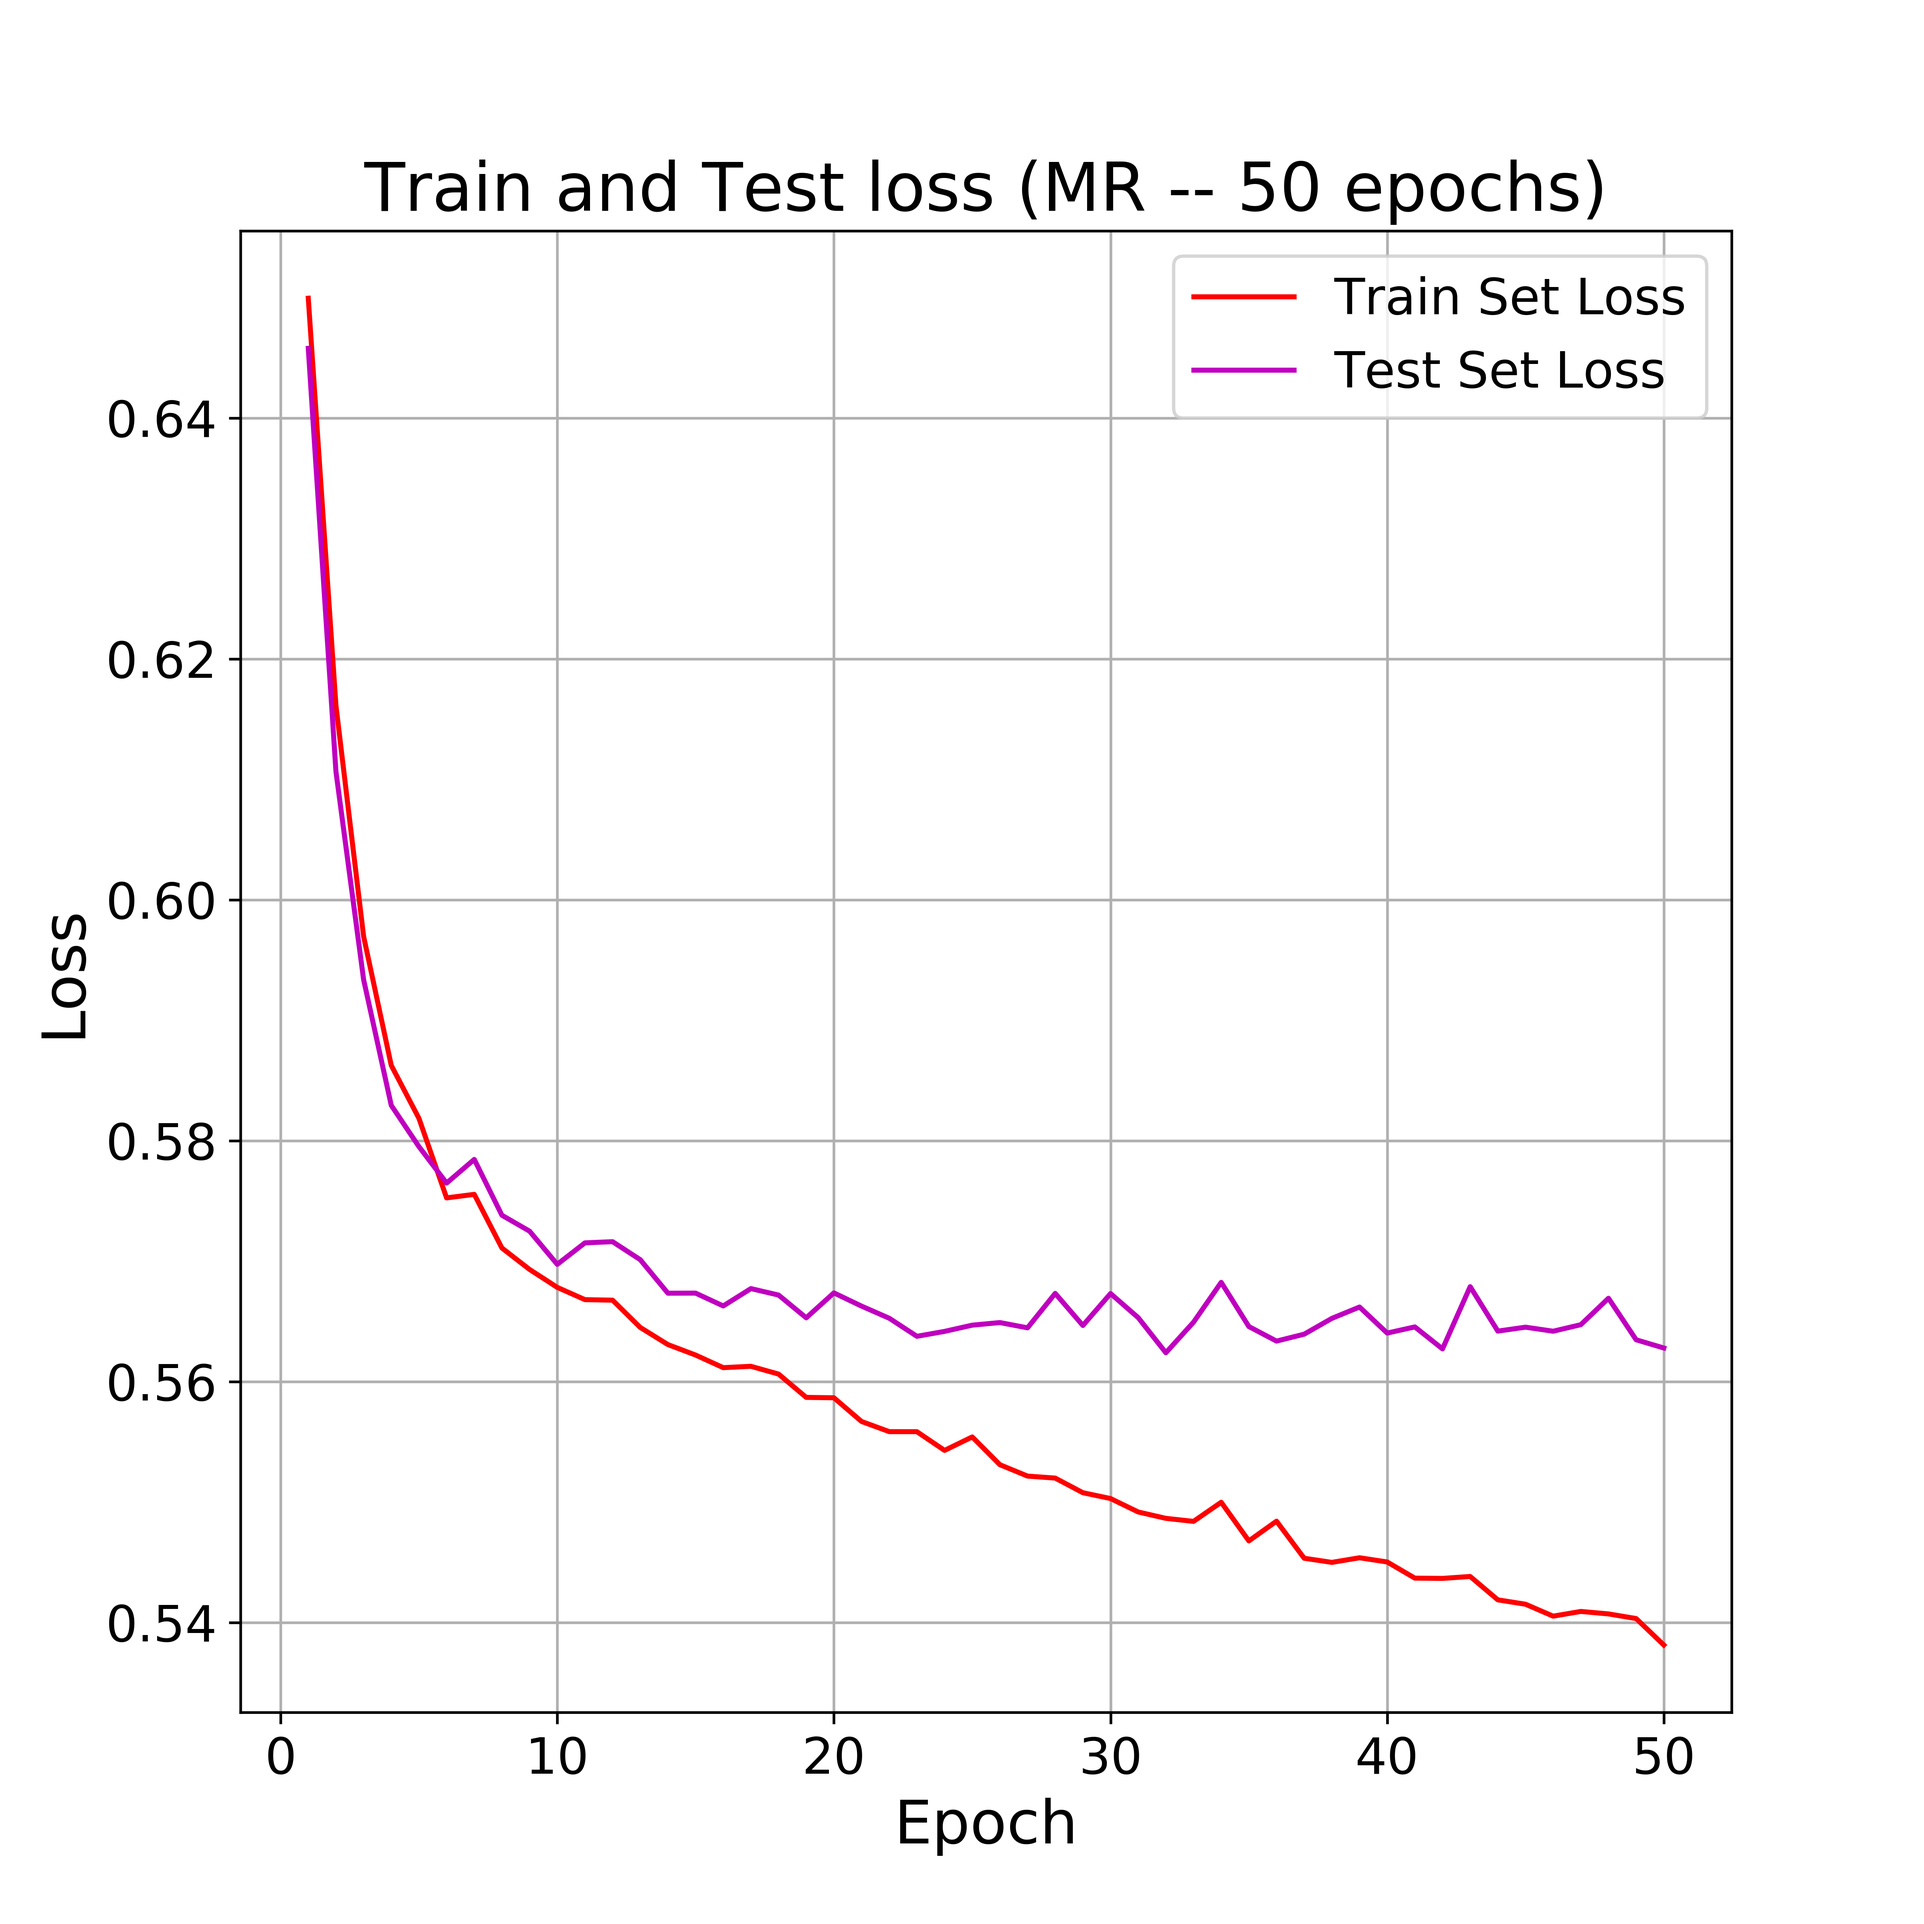
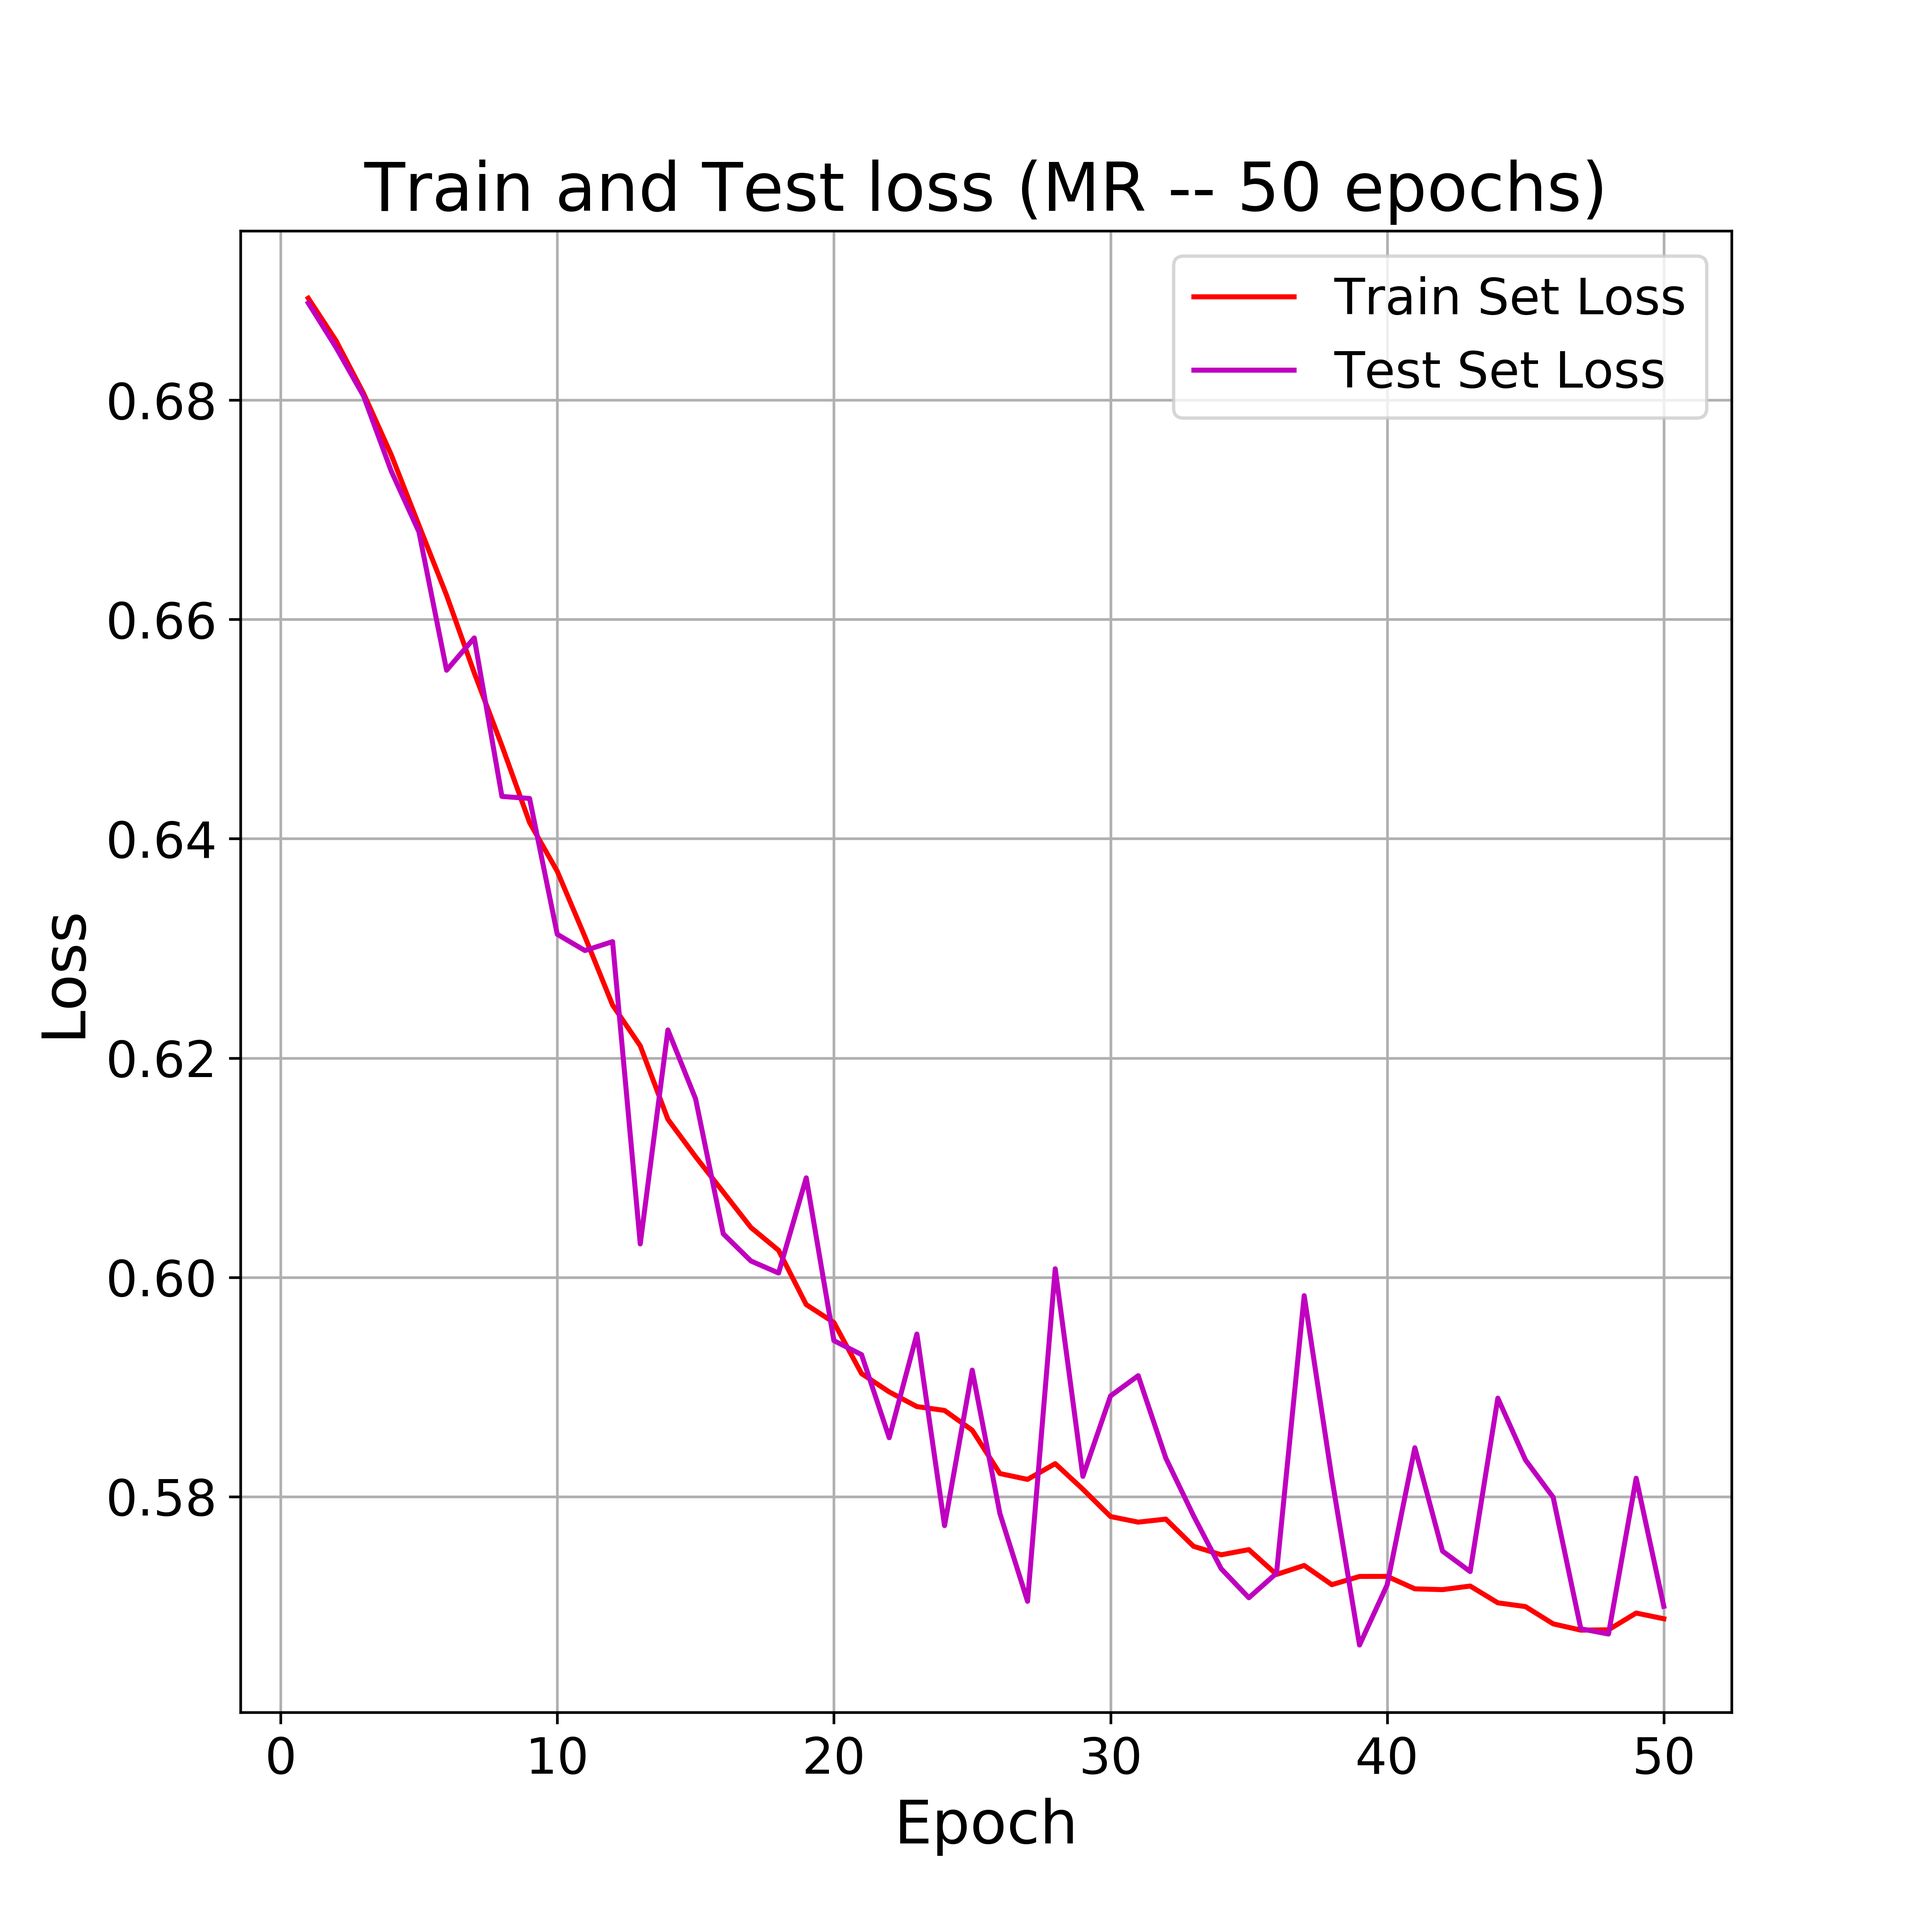
report

diff --git a/lab3/slp-lab3-prep/main.py b/lab3/slp-lab3-prep/main.py
@@ -35,7 +35,7 @@ EMB_DIM = 50
 EMB_TRAINABLE = False
 BATCH_SIZE = 128
 EPOCHS = 50
-DATASET =  "Semeval2017A"  # options: "MR", "Semeval2017A"
+DATASET =  "MR"  # options: "MR", "Semeval2017A"
 
 # if your computer has a CUDA compatible gpu use it, otherwise use the cpu
 DEVICE = torch.device("cuda" if torch.cuda.is_available() else "cpu")
@@ -94,9 +94,9 @@ for i in range(15,20):
 
 # EX4 - Define our PyTorch-based DataLoader
 
-train_loader = DataLoader(train_set, batch_size=4,
+train_loader = DataLoader(train_set, batch_size=128,
                         shuffle=True, num_workers=4)
-test_loader = DataLoader(test_set, batch_size=4,
+test_loader = DataLoader(test_set, batch_size=128,
                         shuffle=True, num_workers=4)
 
 

diff --git a/lab3/slp-lab3-prep/dataloading.py b/lab3/slp-lab3-prep/dataloading.py
@@ -95,8 +95,8 @@ class SentenceDataset(Dataset):
         example = []
         for token in sentence:
             # get indexes
-            if token in self.word2idx.keys():
-                example.append(self.word2idx[token])
+            if token.lower() in self.word2idx.keys():
+                example.append(self.word2idx[token.lower()])
             else :
                 example.append(self.word2idx['<unk>']) 
 
